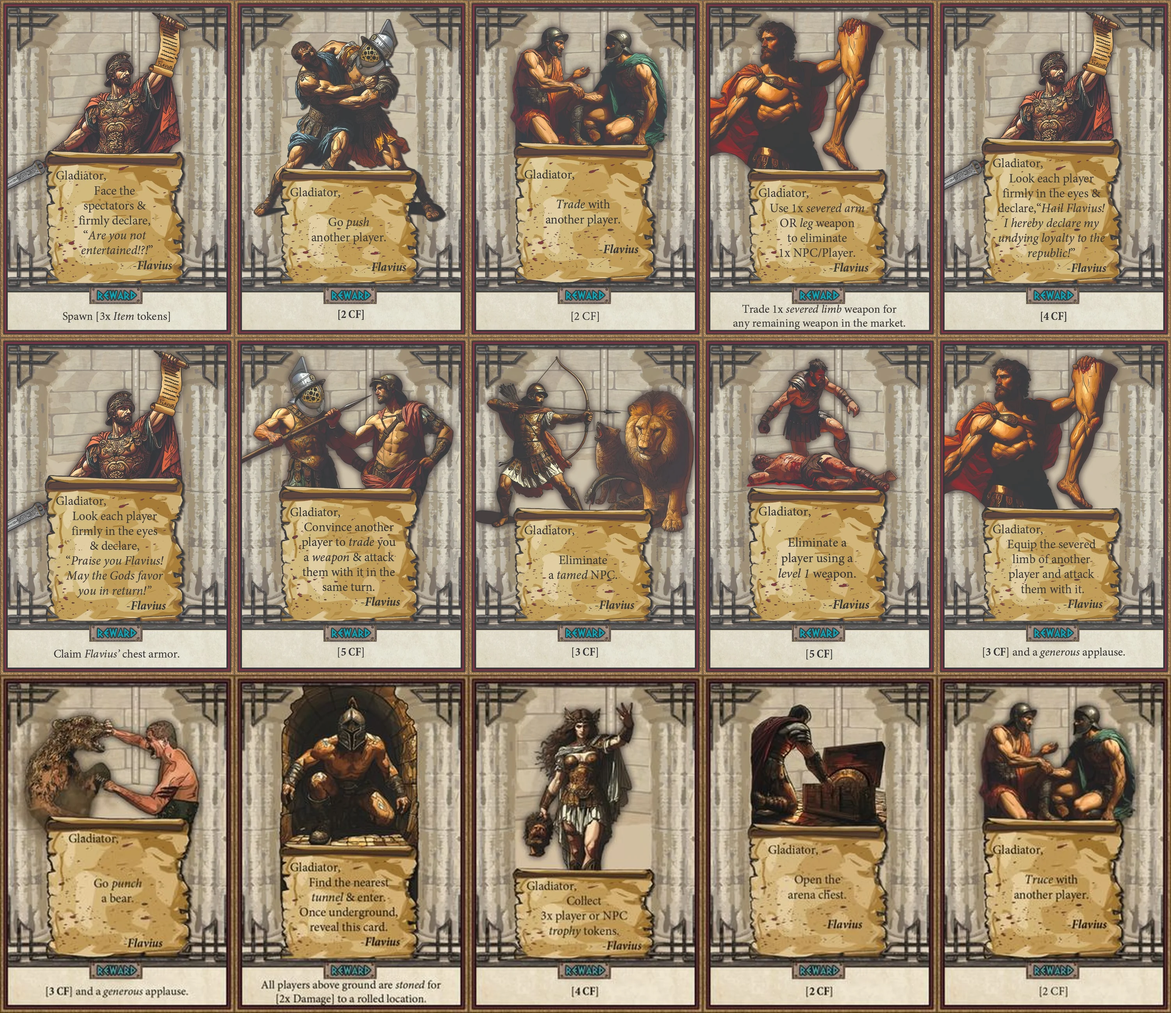
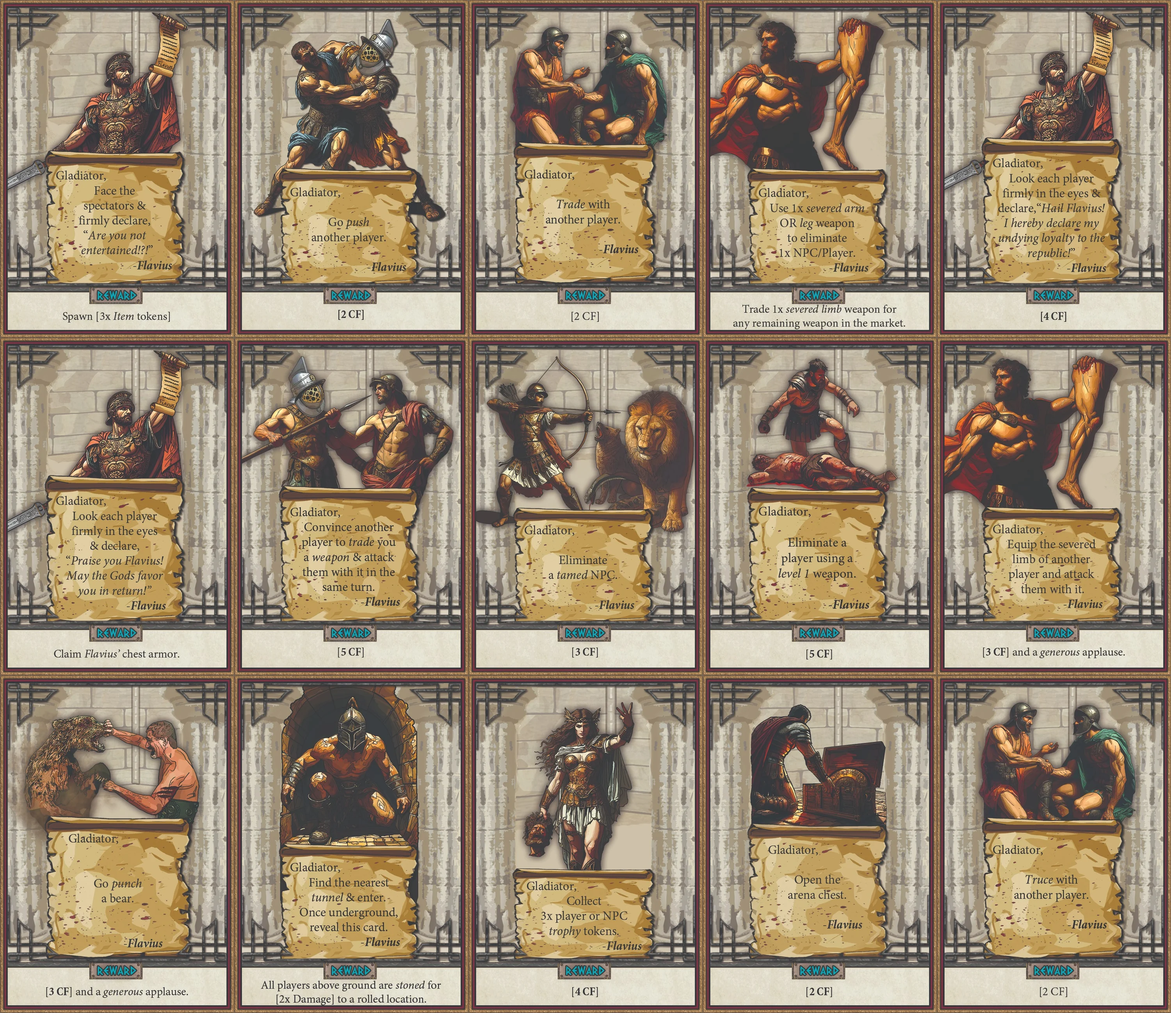
v0.91: his Mandata scans 11-15 — all fifteen Mandata Flavi cards are his sharp scans
Claude-Session: https://claude.ai/code/session_01BLtNGuDrMd265uhsDUPs5S

Changed region(s): [[0.0, 0.6555, 1.0, 1.0]]

diff --git a/tools/art/mandata91/make.py b/tools/art/mandata91/make.py
@@ -1,5 +1,5 @@
 """mandati91.webp — the Mandata Flavi sheet (5 cols x 3 rows, MANDATA[].img order) from his card scans tools/art/mandata91/mf<i>.jpg
-(822x1122 with a grey margin; the card is x 50..773, y 39..1082). Cards he has not sent yet come from the old assets/mandati.jpg cell."""
+(822x1122 with a grey margin; the card is x 50..773, y 39..1082). All 15 are his scans (v0.91); a missing file falls back to the old assets/mandati.jpg cell."""
 from PIL import Image
 import os,sys
 here=os.path.dirname(os.path.abspath(__file__));root=os.path.join(here,'..','..','..')
